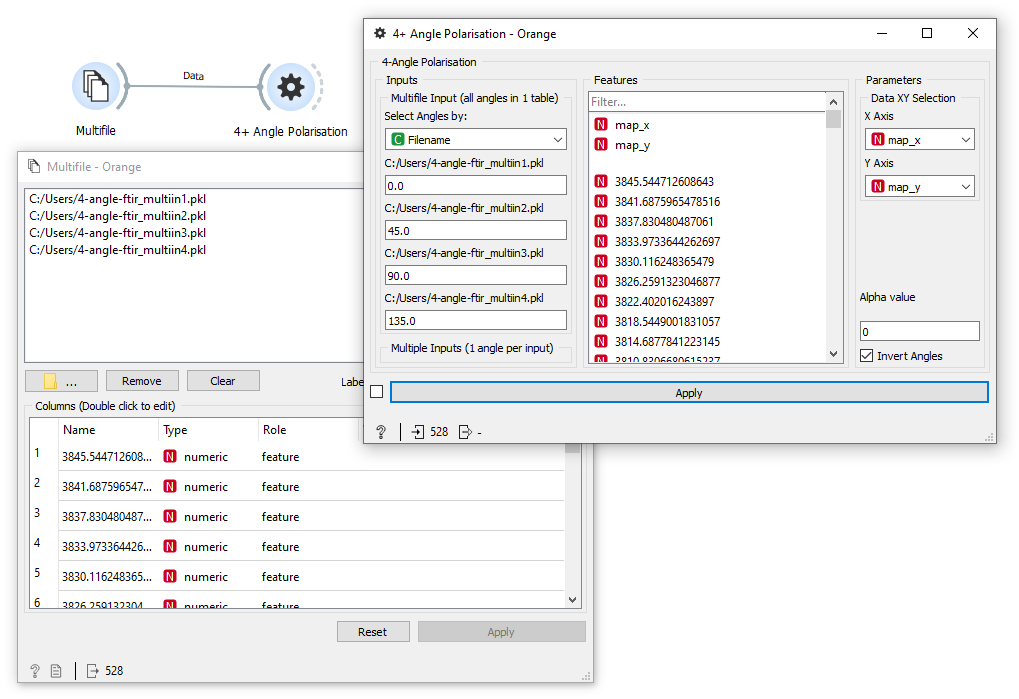
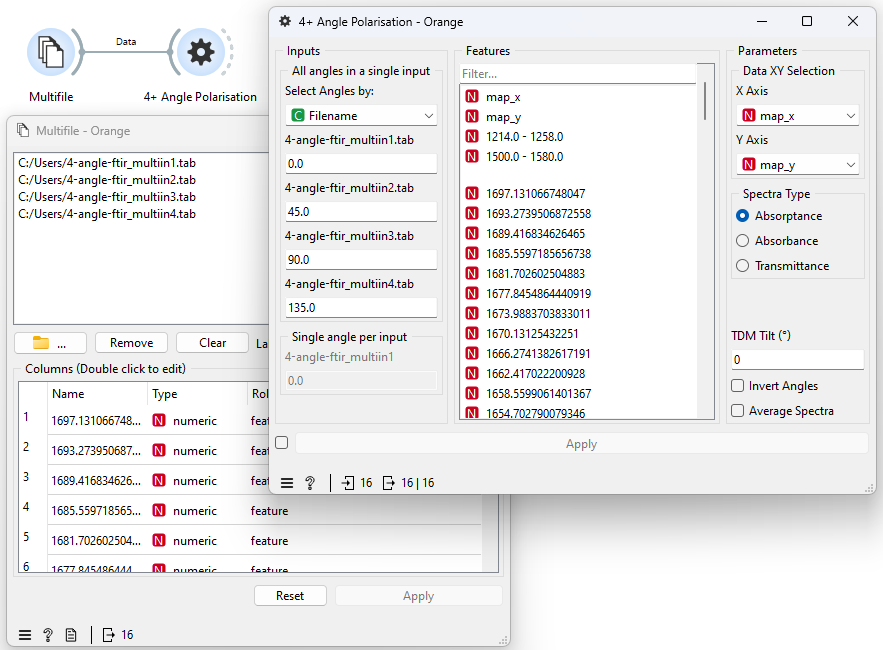
polar: update documentation

Changed region(s): [[0.0, 0.0, 1.0, 1.0], [0.6421, 0.6769, 0.6727, 0.7077]]

diff --git a/doc/widgets/polar.md b/doc/widgets/polar.md
@@ -1,7 +1,7 @@
 4+ Angle Polarisation
 ============
 
-Calculates vibrational mode orientation from polarised datasets
+Calculates vibrational mode orientation from polarised infrared spectroscopy datasets
 
 **Inputs**
 
@@ -12,7 +12,9 @@ Calculates vibrational mode orientation from polarised datasets
 - Polar Data: dataset with selected feature(s) orientation information
 - Curve Fit Model Data: dataset with the optimal parameters of the curve fit model
 
-The **4+ Angle Polarisation** widget allows you to calculate orientation information of selected features using polarised spectroscopy data collected at 4 or more polarisation angles. The implemented algorithm is the same as that outlined by Hikima et. al. (2013)<sup>1</sup>
+The **4+ Angle Polarisation** widget allows you to calculate orientation information of selected features using polarised spectroscopy data collected at 4 or more polarisation angles. The implemented algorithm is the same as that outlined by Hikima et al. (2013)<sup>1</sup>
+
+If you use this widget for your data analysis, please cite the articles in which the <a href="https://doi.org/10.1021/ma302560q">method (Hikima et al. (2013)<sup>1</sup>)</a> and <a href="#references">widget (Gassner et al. (2025)<sup>2</sup>)</a> are introduced.
 
 ![](images/Polar-stamped.png)
 
@@ -21,8 +23,10 @@ The **4+ Angle Polarisation** widget allows you to calculate orientation informa
     - *Multiple Inputs*: 1 input per polarisation angle.
 2. Features: Select the features to calculate the orientation of.
 3. Data XY Selection: Define the attributes for the x and y axes for 2D datasets.
-4. Alpha value: The value (α) to use when calculating Herman's orientation function .
-5. Invert Angles: Invert the calculated Azimuth Angles about the 0 degree axis (i.e. so that 90 degrees is output as -90 degrees).
+4. Spectra Type: The type of spectra on the input. A conversion to *Absorptance* is performed before calculating orientation information when *Absorbance* or *Transmittance* is selected (this does not affect meta and class variables).
+5. TDM Tilt (°): The angle of the Transition Dipole Moment with respect to the molecular axis. Used in calculation of the value of Herman's orientation function.
+6. Invert Angles: Invert the calculated Azimuth Angles about the 0 degree axis (i.e. so that 90 degrees is output as -90 degrees).
+7. Average Spectra: Average all output variables across polarisation angles.
 
 Input Examples
 -------
@@ -35,4 +39,11 @@ Multiple Inputs
 ![](images/Polar-Example2.PNG)
 
 
+
+
+References
+-------
+
+
 1. Hikima, Y.;  Morikawa, J.; Hashimoto, T., Wavenumber Dependence of FT-IR Image of Molecular Orientation in Banded Spherulites of Poly(3-hydroxybutyrate) and Poly(L-lactic acid). Macromolecules 2013, 46, 1582-1590.
+2. Gassner, C.; Vongsvivut, J.; Ryu, M.; Ng, S.H.; Toplak, M.; Takkalkar, P.; Fac, M.L.; Sims, N.A.; Wood, B.R.; Tobin, M.J.; Juodkazis, S.; Morikawa, J., 4+ Angle Polarisation: New Multiple-Angle FTIR Polarisation Widget for Molecular Orientation Analysis in the Open-Source Quasar Platform.
